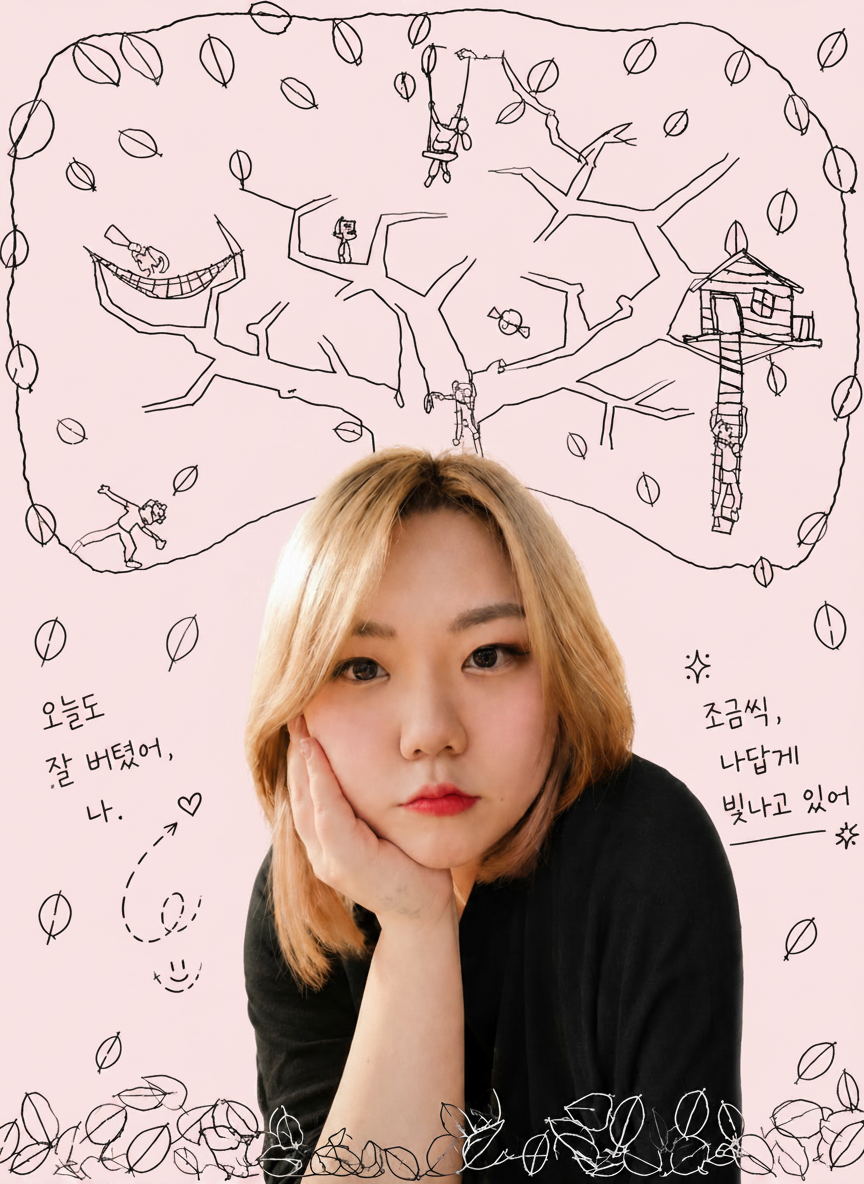
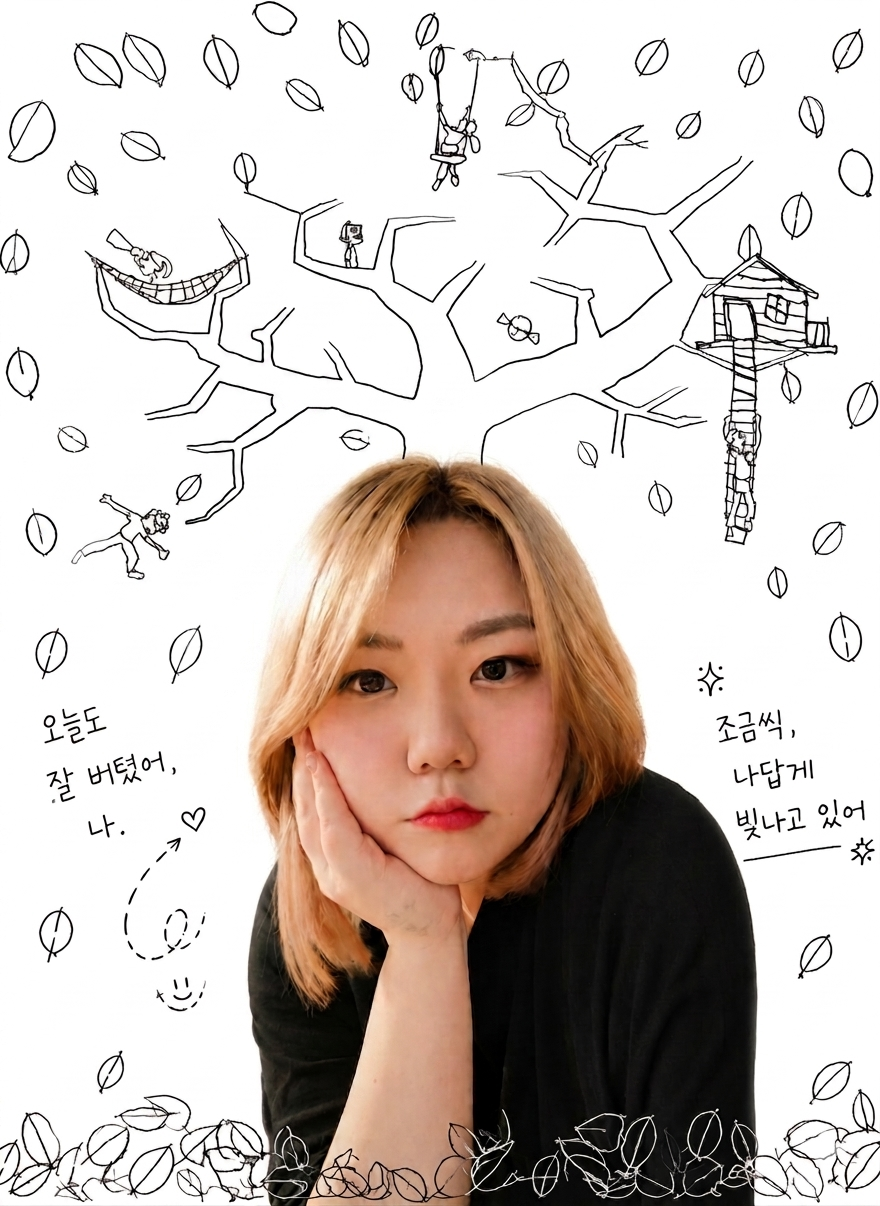
feat: main img 추가
- main 수정 및 img 추가
- site header 수정

diff --git a/index.html b/index.html
@@ -73,36 +73,30 @@
 
     <main id="main">
       <section class="mini">
-        <nav class="main-nav">
-          <div class="mini_about">
-            <a href="#about">
-              <img
-                src="./image/About.png"
-                alt="나무위에 새집있는 그림"
-                class="mini_about-image"
-              />
-            </a>
-          </div>
-          <div class="mini_like">
-            <a href="#like">
-              <img
-                src="./image/Like.png"
-                alt="소녀가 그네타고있는 뒷모습"
-                class="mini_like-image"
-              />
-            </a>
-          </div>
-          <div class="mini_portfolio">
-            <a href="#portfolio">
-              <img
-                src="./image/Portfolio.png"
-                alt="나무위에 해먹있는 그림"
-                class="mini_portfolio-image"
-              />
-            </a>
-          </div>
-        </nav>
+         <div class="mini_main-text">
+          <p>
+            안녕하세요! 저는 <a href="#about"><span>박정민</span></a>이에요
+          </p>
+          <p>여행다니기, 분장 메이크업 하기, 레고 조립을 <a href="#like"><span>좋아해요!</span></a></p>
+          <p>
+            저는 미용 전공 후, 미용실에서 오랫동안 일하다
+          </p>
+          <p>
+            프론트엔드  <a href="#portfolio"><span>개발자</span></a>로 새롭게 시작을 해보려 해요!
+          </p>
+       </div>
+    </section>
       </section>
     </main>
   </body>
+  <footer>
+    <ul>
+        <li><p>copyright ⓒ 2026 All rights reserved by jeongmin.</p></li>
+        <li>
+          <a href="mailto:elin96work@gmail.com" target="_top">
+            📧 Mail : elin96work@gmail.com
+          </a>
+        </li>
+      </ul>
+  </footer>
 </html>

diff --git a/style.css b/style.css
@@ -1,0 +1,62 @@
+/* 사이트 헤더 */
+.site-header {
+  padding: 0;
+  height: 97px;
+  position: sticky;
+  top: 0;
+  border-bottom: 1px solid #5f4a47;
+  background-color: rgba(255, 248, 243, 0.88);
+  backdrop-filter: blur(12px);
+  z-index: 100;
+}
+.logo {
+  margin: 0;
+  display: inline-block;
+  line-height: 76px;
+}
+.logo a {
+  color: #5f4a47;
+  font-family: "Cafe24SsongSsong", sans-serif;
+  font-size: 50px;
+  font-weight: normal;
+  letter-spacing: -0.02em;
+}
+.site-nav {
+  position: absolute;
+  top: 50px;
+  right: 32px;
+  transform: translateY(-50%);
+  justify-content: center;
+}
+.site-nav svg {
+  width: 25px;
+  height: auto;
+}
+.site-nav ul > li {
+  margin-left: 30px;
+  display: inline-block;
+  font-size: 20px;
+  line-height: 76px;
+}
+.site-nav a {
+  position: relative;
+  font-weight: normal;
+  font-size: 36px;
+  font-family: "Cafe24SsongSsong", sans-serif;
+  color: #5f4a47;
+}
+.site-nav a::after {
+  content: "";
+  width: 0;
+  height: 2px;
+  position: absolute;
+  left: 0;
+  bottom: -7px;
+  border-radius: 999px;
+  background-color: #ffc9ef;
+  transition: width 0.25s;
+}
+.site-nav a:hover::after {
+  width: 100%;
+}
+/* 메인 hover */

diff --git a/reset.css b/reset.css
@@ -1,10 +1,17 @@
 html {
   scroll-behavior: smooth;
 }
-#main {
-  background-image: url("../image/main.png");
+main {
+  background-image: url("./image/main.png");
   background-repeat: no-repeat;
-  background-position: center;
-  background-size: cover;
+  background-position: 25% 75%;
+  background-size: contain;
   min-height: 100vh;
+}
+@font-face {
+  font-family: "Cafe24SsongSsong";
+  src: url("https://gcore.jsdelivr.net/gh/projectnoonnu/noonfonts_twelve@1.1/Cafe24Syongsyong.woff")
+    format("woff");
+  font-weight: normal;
+  font-display: swap;
 }
